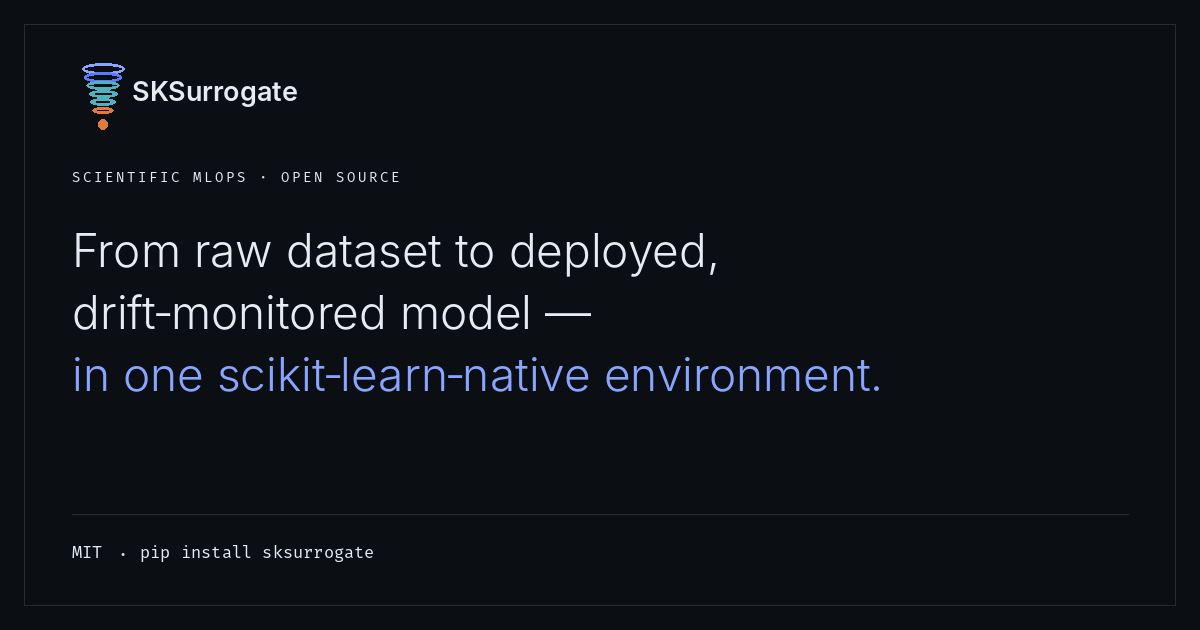
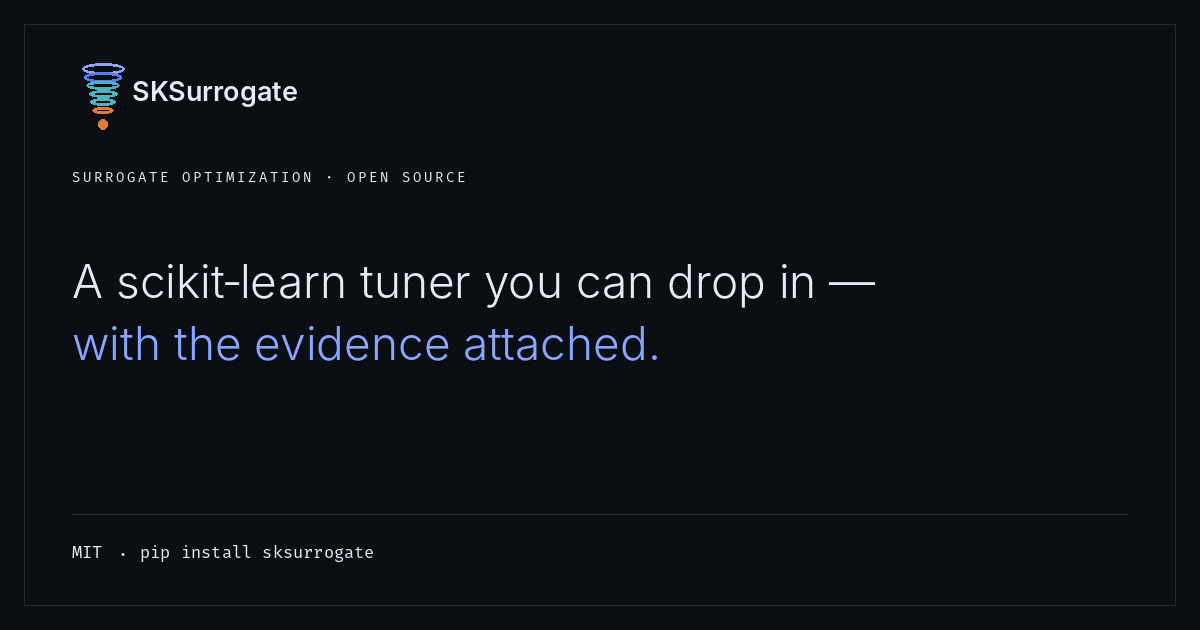
[Feat: content] the hero says what the title says: a tuner you can drop in, evidence attached
The h1 carried the suite story ("from raw dataset to deployed, drift-monitored
model — in one scikit-learn-native environment") while the search card led with
the tuner. The h1 is also the og-card's headline by the generator's own copy
rule, so the two surfaces could not be fixed separately.

- h1: "A scikit-learn tuner you can drop in — with the evidence attached."
- eyebrow: "Scientific MLOps · open source" -> "Surrogate optimization · open source"
  (the vaguest phrase in the most prominent label, retired)
- title/og:title follow the same claim
- assets/og-card.png regenerated by scripts/make_og_card.py, which now also
  asserts that its HEAD block is the page's h1 verbatim and exits non-zero when
  the copy drifts. Verified in both directions: passing build, and a seeded
  one-character change exits 1 without writing an image.

The lede is untouched: it still explains the whole product (dataset registration
to monitored deployment), which is now the second sentence rather than the
headline's job.

Changed region(s): [[0.0617, 0.3619, 0.74, 0.6333], [0.0617, 0.2714, 0.37, 0.3016], [0.7092, 0.4222, 0.74, 0.4524]]

diff --git a/index.html b/index.html
@@ -3,12 +3,12 @@
 <head>
 <meta charset="utf-8">
 <meta name="viewport" content="width=device-width, initial-scale=1">
-<title>SKSurrogate — surrogate optimization with the evidence attached</title>
+<title>SKSurrogate — a scikit-learn tuner with the evidence attached</title>
 <meta name="description" content="Scikit-learn-native surrogate optimization with the evidence attached: a drop-in BayesSearchCV replacement, nested CV, conformal intervals, and a provenance record behind every number. MIT; pip install or one container.">
 <link rel="canonical" href="https://sksurrogate.com/">
 <meta property="og:site_name" content="SKSurrogate">
 <meta property="og:locale" content="en_US">
-<meta property="og:title" content="SKSurrogate — surrogate optimization with the evidence attached">
+<meta property="og:title" content="SKSurrogate — a scikit-learn tuner with the evidence attached">
 <meta property="og:description" content="A scikit-learn-native tuner that replaces the archived BayesSearchCV — with nested CV, conformal intervals, and a provenance record behind every number. MIT; pip install or one container.">
 <meta property="og:type" content="website">
 <meta property="og:url" content="https://sksurrogate.com/">
@@ -147,8 +147,8 @@
      Former mockup line demoted to secondary subhead per content-plan S2 ⚠. -->
 <section class="hero">
   <div>
-    <div class="eyebrow"><span class="bar"></span><span class="mono">Scientific MLOps · open source</span></div>
-    <h1>From raw dataset to deployed, drift‑monitored model —<br><em>in one scikit‑learn‑native environment.</em></h1>
+    <div class="eyebrow"><span class="bar"></span><span class="mono">Surrogate optimization · open source</span></div>
+    <h1>A scikit‑learn tuner you can drop in —<br><em>with the evidence attached.</em></h1>
     <!-- subhead: former mockup lede (verified claims, content-plan S2) -->
     <p class="lede">Learn the surface before you spend another experiment. SKSurrogate searches hyperparameters and pipeline structure with a surrogate response surface — then proves the result: nested cross-validation, conformal intervals, Sobol and Morris sensitivity. From dataset registration to monitored deployment, every run keeps its data identity and evaluation record. Drive it from the UI, the API, or any MCP client — the audit trail is identical either way.</p>
     <div class="chips">

diff --git a/scripts/make_og_card.py b/scripts/make_og_card.py
@@ -11,6 +11,7 @@ Requires: Pillow, and the Inter / Fira Mono OTFs present on this machine
     python scripts/make_og_card.py
 """
 import os
+import re
 from PIL import Image, ImageDraw, ImageFont
 
 W, H = 1200, 630
@@ -28,9 +29,8 @@ FONT_DIR_F = "/usr/share/fonts/opentype/fira"
 
 # h1 text, verbatim from index.html (U+2011 non-breaking hyphen preserved)
 HEAD = [
-    ("From raw dataset to deployed,", INK),
-    ("drift\u2011monitored model \u2014", INK),
-    ("in one scikit\u2011learn\u2011native environment.", ULTRA),
+    ("A scikit\u2011learn tuner you can drop in \u2014", INK),
+    ("with the evidence attached.", ULTRA),
 ]
 
 
@@ -58,7 +58,26 @@ def mark(draw, x, y, scale=0.52):
                   x + 60 * scale + r, y + 120 * scale + r], fill=EMBER + (255,))
 
 
+def page_h1():
+    """The h1 exactly as the page renders it, so HEAD cannot drift from it."""
+    html = open("index.html", encoding="utf-8").read()
+    m = re.search(r"<h1>(.*?)</h1>", html, re.S)
+    if not m:
+        raise SystemExit("make_og_card: no <h1> in index.html")
+    text = re.sub(r"<br\s*/?>", "\n", m.group(1))
+    return re.sub(r"<[^>]+>", "", text).strip()
+
+
 def main():
+    h1 = page_h1()
+    drawn = "\n".join(t for t, _ in HEAD)
+    if drawn != h1:
+        raise SystemExit(
+            "make_og_card: HEAD no longer matches the page's h1\n"
+            f"  page: {h1!r}\n  card: {drawn!r}\n"
+            "Update HEAD to the h1 verbatim (line breaks are presentation only)."
+        )
+
     img = Image.new("RGB", (W, H), BG)
     d = ImageDraw.Draw(img, "RGBA")
 
@@ -73,10 +92,11 @@ def main():
     # brand block
     mark(d, 72, 62)
     d.text((132, 74), "SKSurrogate", font=f_word, fill=INK)
-    tracked(d, (72, 168), "SCIENTIFIC MLOPS \u00b7 OPEN SOURCE", f_mono, FAINT, 2.6)
+    tracked(d, (72, 168), "SURROGATE OPTIMIZATION \u00b7 OPEN SOURCE", f_mono, FAINT, 2.6)
 
-    # headline (verbatim h1)
-    y = 222
+    # headline (verbatim h1); a two-line block is nudged down so the card keeps
+    # the same optical balance the three-line version had
+    y = 222 + max(0, 3 - len(HEAD)) * 31
     for text, color in HEAD:
         d.text((72, y), text, font=f_head, fill=color)
         y += 62
